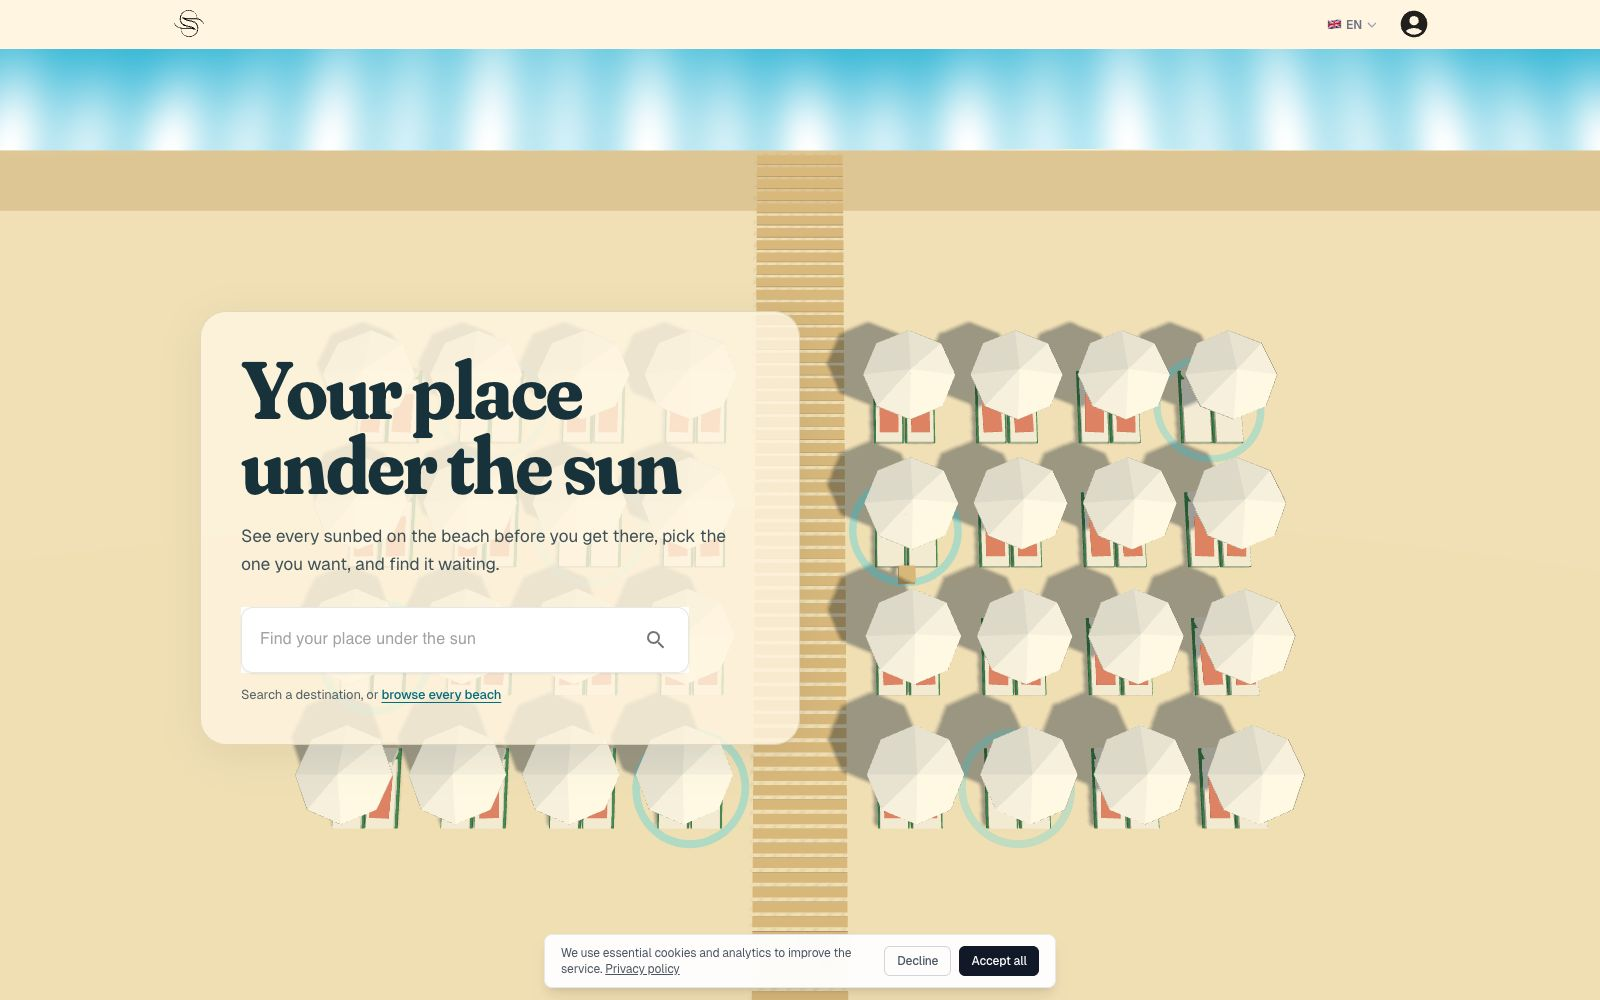
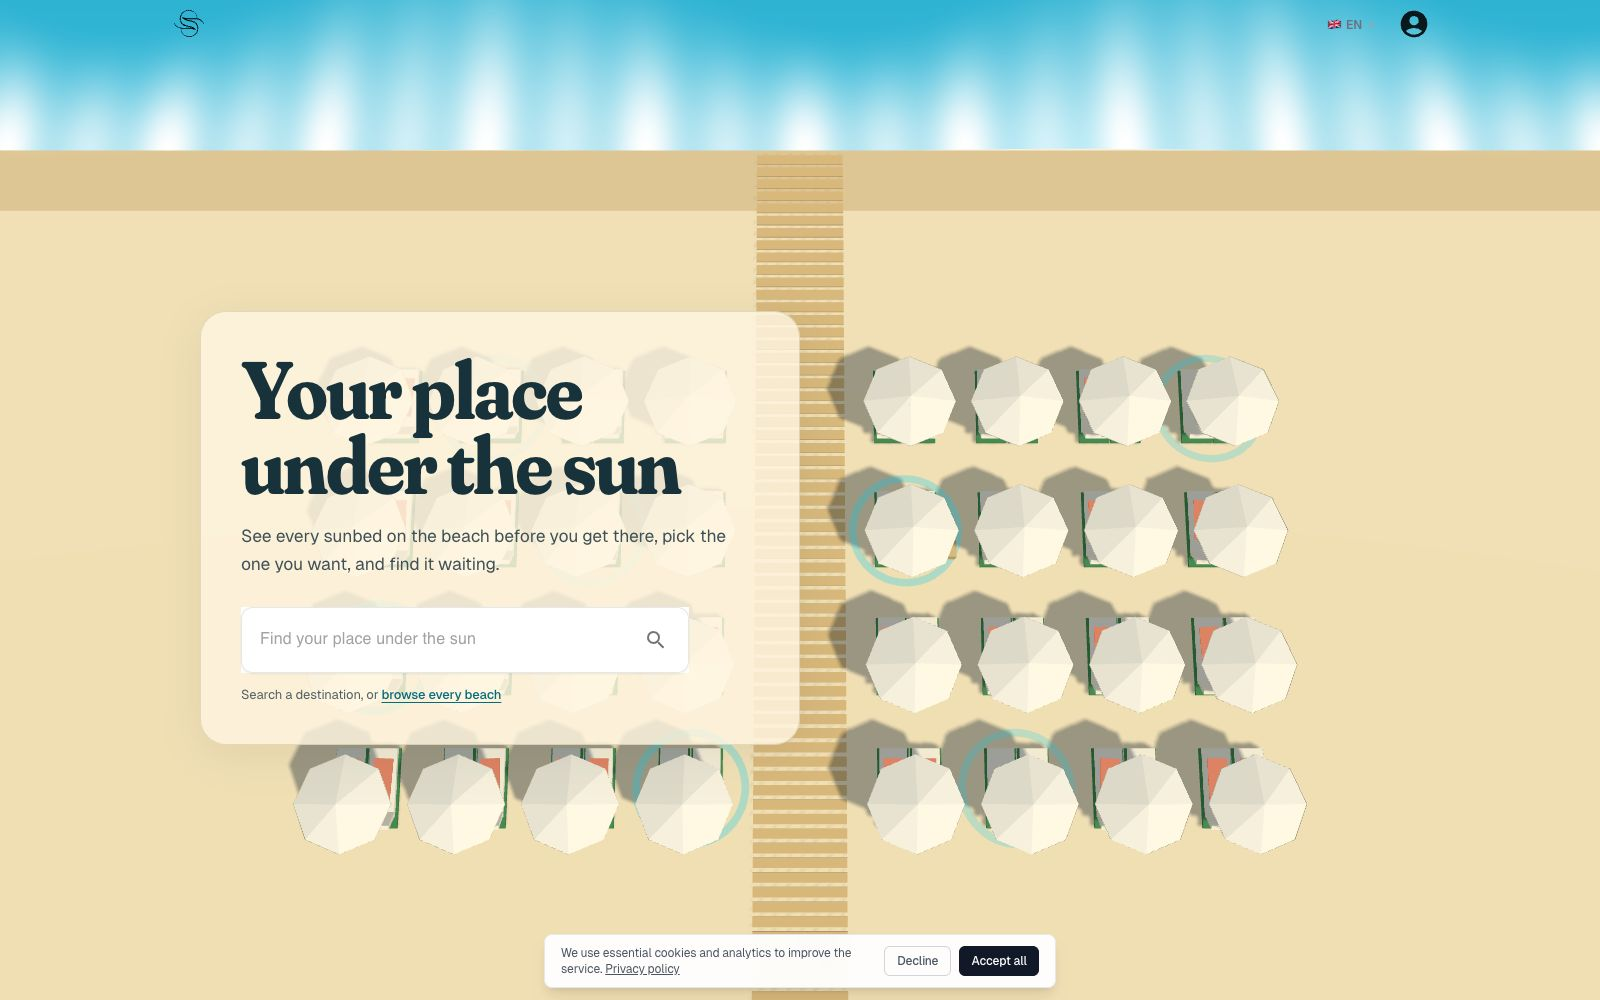
Direct the landing beach scene as one continuous camera move
Follow-up to the WebGL landing page after a first look on real hardware.

Scene geometry: loungers face the sea. The first cut had the backrest and
parasol at the water end, so guests lay looking inland; mirroring the pair
then leaned the backrest over the seat (the tilt sign had to flip with the
position), which read as folded. Pole and plaque are at the land end, the
plaque faces the walkway a guest walks in from, and its sea side is blank.

Camera: KEYS now carry an explicit scroll position each, mapped to the
Catmull-Rom parameter by tOfP(), so a segment can be slow (the turn around
the QR plaque, the turn around the drinks) or quick (the hops between)
instead of every key getting an equal share of the scroll. The old bolted-on
drinks orbit is gone; the sequence is one path:

  map → wide → glide to the seat (the claim) → arrive at the parasol from the
  walkway side → slow turn on the plaque's front → slow turn around the
  drinks table beside the lounger → spiral → straight back out along the
  boardwalk into dusk.

The spiral (Rig, SPIRAL_IN..SPIRAL_OUT) replaces a 180° turn-around that
reversed the turn direction and snapped: the yaw keeps rotating from the
drinks (φ 165°) round to the sea (360°) while the orbit centre slides from
the table to the boardwalk and the radius closes to zero, so the camera
arrives at the boardwalk's middle already facing the sea. Spline keys at
both ends match the spiral's endpoints.
[…]

diff --git a/apps/user/components/landing/beach-scene.tsx b/apps/user/components/landing/beach-scene.tsx
@@ -5,14 +5,16 @@
  *
  * A stylised beach club built from the parts the real reservation map draws:
  * a white octagonal canopy on a pole between two loungers on a green frame, a
- * coral towel on the ones that are taken. It is driven by ONE number, the
+ * coral towel on the ones that are taken. Loungers face the sea (-z): backrest
+ * and parasol at the land end, feet to the water. It is driven by ONE number, the
  * page's scroll progress `p` in [0, 1], which the parent writes into a ref:
  *
  *   p = 0     straight down — this IS the map the product uses — morning light
- *   p ≈ 0.2   the map stands up into a wide tilted view
- *   p ≈ 0.4   gliding over the rows; a free unit is claimed ("Yours")
- *   p ≈ 0.6   noon, low beside a pole: every pole carries its QR plaque
- *   p ≈ 0.8   golden hour: the camera leaves the path and circles the tray of drinks
+ *   p ≈ 0.1   the map stands up into a wide tilted view
+ *   p ≈ 0.2   gliding over the rows toward the seat; a free unit is claimed ("Yours")
+ *   p ≈ 0.36  arrive at the parasol; slow turn around the QR plaque — noon
+ *   p ≈ 0.7   slow turn around the drinks table on the far side — golden hour
+ *   p ≈ 0.92  back to the middle of the boardwalk, then out low and straight
  *   p = 1     dusk: parasols fold, string lights come on along the boardwalk
  *
  * Camera, sun, sky, sea and sand are all functions of p (Catmull-Rom through
@@ -54,7 +56,7 @@ const DX = 2.75
 const DZ = 3.35
 const WALK_W = 2.6
 const SHORE_Z = -12.5 // sea is -z
-const POLE_Z = -0.35 // between the beds, a little toward the head end
+const POLE_Z = 0.35 // between the beds at the head end — the LAND side: you lie facing the sea
 
 interface UnitSpec {
   id: number
@@ -170,31 +172,67 @@ const SEA_SHALLOW: Key[] = [
   { p: 1, v: hex('#5c7391') },
 ]
 
-// ── Camera path: keyframes at equal p-steps, Catmull-Rom between them ───────
-const CAM_POS = [
-  new THREE.Vector3(0, 36, 4.5), // 0.0  the map
-  new THREE.Vector3(2.0, 12, 27), // 0.2  wide
-  new THREE.Vector3(7.5, 4.6, 9.5), // 0.4  gliding toward the claimed unit
-  new THREE.Vector3(CLAIMED.x + 1.7, 1.55, CLAIMED.z + 2.2), // 0.6  beside the pole, noon
-  new THREE.Vector3(CLAIMED.x + 0.12, 1.0, CLAIMED.z + 2.45), // 0.8  sitting on the bed: tray in the foreground, sea ahead
-  new THREE.Vector3(-4, 6.5, 26), // 1.0  dusk, wide
-]
-const CAM_LOOK = [
-  new THREE.Vector3(0, 0, -2.5),
-  new THREE.Vector3(0.6, 0.2, -5),
-  new THREE.Vector3(CLAIMED.x + 3.2, 0.9, CLAIMED.z - 1),
-  new THREE.Vector3(CLAIMED.x, 1.3, CLAIMED.z + POLE_Z),
-  new THREE.Vector3(CLAIMED.x + 0.05, 0.1, CLAIMED.z - 4.0),
-  new THREE.Vector3(0, 1.2, -6),
-]
-const posCurve = new THREE.CatmullRomCurve3(CAM_POS, false, 'centripetal')
-const lookCurve = new THREE.CatmullRomCurve3(CAM_LOOK, false, 'centripetal')
+// ── Camera path ─────────────────────────────────────────────────────────────
+// Each key carries the scroll position it is reached at, so a segment can be
+// slow (the QR turn, the drinks) or quick (the hops between). Catmull-Rom runs
+// over the key index; `tOfP` maps scroll → index, piecewise-linear.
+//
+//   0.00 the map · 0.09 wide · 0.17–0.26 gliding over the rows toward the seat
+//   0.36 arrive at the parasol from the walkway side, plaque in view
+//   0.36–0.62 slow turn around the plaque, staying on its front (the back is blank)
+//   0.68–0.86 slow turn around the drinks table on the far side
+//   0.86–0.95 spiral in to the middle of the boardwalk, still turning, to face the sea
+//   1.00 backed out low and straight along the boardwalk
+const PLAQUE = new THREE.Vector3(CLAIMED.x, 1.3, CLAIMED.z + POLE_Z + 0.05)
+/** The side table, beside the right-hand lounger at the head end (see Drinks). */
+const TABLE = new THREE.Vector3(CLAIMED.x + 1.08, 0.45, CLAIMED.z + 0.55)
+/** A point on a circle around `c`: φ 0 = land side (+z), 90° = +x, 180° = sea. */
+const around = (c: THREE.Vector3, deg: number, r: number, h: number) => {
+  const a = (deg * Math.PI) / 180
+  return new THREE.Vector3(c.x + Math.sin(a) * r, h, c.z + Math.cos(a) * r)
+}
+const UNIT_C = new THREE.Vector3(CLAIMED.x, 0, CLAIMED.z + POLE_Z)
+const TABLE_C = new THREE.Vector3(TABLE.x, 0, TABLE.z)
+const tableLook = new THREE.Vector3(TABLE.x, TABLE.y + 0.18, TABLE.z)
+/** The middle of the boardwalk, level with the claimed row. */
+const WALK_C = new THREE.Vector3(0, 0, CLAIMED.z + 0.5)
+/** The spiral window: the drinks turn keeps rotating (φ 165° → 360°) while the
+ *  orbit centre slides from the table to the boardwalk and the radius closes to
+ *  zero, so the camera arrives at the boardwalk's middle facing the sea with no
+ *  change of turn direction. */
+const SPIRAL_IN = 0.86
+const SPIRAL_OUT = 0.95
 
-/** Where the tray sits (see Drinks) — the fly-around orbits this point. */
-const TRAY = new THREE.Vector3(CLAIMED.x, 0.62, CLAIMED.z + 1.22)
-/** The drinks window: the camera leaves the path, circles the tray, and returns. */
-const ORBIT_IN = 0.7
-const ORBIT_OUT = 0.95
+const KEYS: { p: number; pos: THREE.Vector3; look: THREE.Vector3 }[] = [
+  { p: 0.0, pos: new THREE.Vector3(0, 36, 4.5), look: new THREE.Vector3(0, 0, -2.5) },
+  { p: 0.09, pos: new THREE.Vector3(2.0, 12, 27), look: new THREE.Vector3(0.6, 0.2, -5) },
+  { p: 0.17, pos: new THREE.Vector3(7.5, 4.6, 9.5), look: new THREE.Vector3(CLAIMED.x + 3.2, 0.9, CLAIMED.z - 1) },
+  { p: 0.26, pos: new THREE.Vector3(CLAIMED.x - 4.5, 3.2, CLAIMED.z + 6.5), look: new THREE.Vector3(CLAIMED.x, 1.0, CLAIMED.z) },
+  // the plaque faces ~326° (toward the walkway); the turn stays on that side
+  { p: 0.36, pos: around(UNIT_C, 282, 2.6, 1.8), look: PLAQUE.clone() },
+  { p: 0.5, pos: around(UNIT_C, 326, 2.1, 1.55), look: PLAQUE.clone() },
+  { p: 0.62, pos: around(UNIT_C, 14, 2.2, 1.5), look: PLAQUE.clone() },
+  // quick hop to the far side, then a slow turn around the table
+  { p: 0.68, pos: around(TABLE_C, 10, 1.45, 1.1), look: tableLook.clone() },
+  { p: 0.78, pos: around(TABLE_C, 90, 1.35, 1.05), look: tableLook.clone() },
+  { p: 0.86, pos: around(TABLE_C, 165, 1.3, 1.0), look: tableLook.clone() },
+  // 0.86–0.95 is the spiral (see Rig): same turn direction, in to the boardwalk,
+  // facing the sea on arrival. Then straight out along it.
+  { p: SPIRAL_OUT, pos: WALK_C.clone().setY(1.9), look: new THREE.Vector3(0, 0.8, WALK_C.z - 10) },
+  { p: 1.0, pos: new THREE.Vector3(0, 2.2, 26), look: new THREE.Vector3(0, 1.0, -8) },
+]
+const posCurve = new THREE.CatmullRomCurve3(KEYS.map((k) => k.pos), false, 'centripetal')
+const lookCurve = new THREE.CatmullRomCurve3(KEYS.map((k) => k.look), false, 'centripetal')
+/** Scroll position → curve parameter: key i sits at t = i/(n-1), linear in between. */
+function tOfP(p: number) {
+  const n = KEYS.length
+  for (let i = 0; i < n - 1; i++) {
+    const a = KEYS[i]!.p
+    const b = KEYS[i + 1]!.p
+    if (p <= b) return (i + (p - a) / (b - a)) / (n - 1)
+  }
+  return 1
+}
 
 // ── Shared geometry / material ───────────────────────────────────────────────
 function useParts() {
@@ -300,7 +338,7 @@ function Unit({
     }
     if (!ring.current || spec.taken) return
     // the free-bed rings belong to the wide, map-like views only
-    const wide = 1 - THREE.MathUtils.smoothstep(p, 0.42, 0.5)
+    const wide = 1 - THREE.MathUtils.smoothstep(p, 0.3, 0.36)
     let opacity = (0.22 + Math.sin(t * 1.6 + spec.id) * 0.06) * wide
     let scale = 1
     if (lit) opacity = 0.85 * wide
@@ -323,11 +361,11 @@ function Unit({
       {[-0.42, 0.42].map((dx) => (
         <group key={dx} position={[dx, 0, 0]}>
           <mesh geometry={geo.frame} material={mat.frame} position={[0, 0.16, 0]} castShadow receiveShadow />
-          <mesh geometry={geo.cushion} material={mat.cushion} position={[0, 0.27, 0.14]} castShadow receiveShadow />
+          <mesh geometry={geo.cushion} material={mat.cushion} position={[0, 0.27, -0.14]} castShadow receiveShadow />
           <mesh
             geometry={geo.backrest}
             material={mat.cushion}
-            position={[0, 0.5, -0.78]}
+            position={[0, 0.5, 0.78]}
             rotation={[-0.95, 0, 0]}
             castShadow
             receiveShadow
@@ -336,7 +374,7 @@ function Unit({
             <mesh
               geometry={geo.towel}
               material={mat.towel}
-              position={[0, 0.355, 0.22]}
+              position={[0, 0.355, -0.22]}
               rotation={[0, (spec.id % 3) * 0.04 - 0.04, 0]}
               castShadow
             />
@@ -344,9 +382,9 @@ function Unit({
         </group>
       ))}
 
-      {/* pole between the beds; the plaque faces the foot end, where a guest walks up */}
+      {/* pole between the beds at the head end; the plaque faces the walkway, where a guest walks in; its sea side is blank */}
       <mesh geometry={geo.pole} material={mat.pole} position={[0, 1.15, POLE_Z]} castShadow />
-      <group position={[0, 1.32, POLE_Z + 0.05]}>
+      <group position={[0, 1.32, POLE_Z + 0.05]} rotation={[0, spec.x < 0 ? 0.6 : -0.6, 0]}>
         <mesh geometry={geo.plaque} material={mat.plaque} castShadow />
         <mesh geometry={geo.plaqueFace} material={mat.plaqueFace} position={[0, 0, 0.016]} />
       </group>
@@ -385,7 +423,7 @@ function Drinks({ parts, progress }: { parts: Parts; progress: MutableRefObject<
   useFrame(() => {
     if (!g.current) return
     const p = progress.current
-    const s = THREE.MathUtils.smoothstep(p, 0.64, 0.72) * (1 - THREE.MathUtils.smoothstep(p, 0.95, 0.99))
+    const s = THREE.MathUtils.smoothstep(p, 0.56, 0.64) * (1 - THREE.MathUtils.smoothstep(p, 0.95, 0.99))
     g.current.scale.setScalar(Math.max(0.0001, s))
     g.current.visible = s > 0.001
   })
@@ -401,7 +439,7 @@ function Drinks({ parts, progress }: { parts: Parts; progress: MutableRefObject<
   )
   const { geo, mat } = parts
   return (
-    <group position={[CLAIMED.x, 0, CLAIMED.z + 1.22]}>
+    <group position={[TABLE.x, 0, TABLE.z]}>
       <mesh geometry={geo.table} material={mat.wood} position={[0, 0.21, 0]} castShadow receiveShadow />
       <group ref={g} position={[0, 0.42, 0]}>
         <mesh material={mats.tray} position={[0, 0.012, 0]} castShadow>
@@ -766,8 +804,7 @@ function Rig({ progress, reduced }: { progress: MutableRefObject<number>; reduce
   const pos = useMemo(() => new THREE.Vector3(), [])
   const look = useMemo(() => new THREE.Vector3(), [])
   const dir = useMemo(() => new THREE.Vector3(), [])
-  const orbitPos = useMemo(() => new THREE.Vector3(), [])
-  const orbitLook = useMemo(() => new THREE.Vector3(), [])
+  const centre = useMemo(() => new THREE.Vector3(), [])
 
   useFrame(({ clock }, dt) => {
     // ease toward the scroll position so a flick reads as a camera move
@@ -775,24 +812,21 @@ function Rig({ progress, reduced }: { progress: MutableRefObject<number>; reduce
     smooth.current += (progress.current - smooth.current) * k
     const p = THREE.MathUtils.clamp(smooth.current, 0, 1)
 
-    posCurve.getPoint(p, pos)
-    lookCurve.getPoint(p, look)
+    const t = tOfP(p)
+    posCurve.getPoint(t, pos)
+    lookCurve.getPoint(t, look)
 
-    // Golden hour: a slow half-circle around the tray. Starts behind it on the
-    // land side (continuing the path's seaward view), passes close on the right,
-    // ends on the sea side looking back at the drinks with the parasols behind.
-    // the hand-back to the wide dusk shot is a long camera move, so it gets a long window
-    const w = THREE.MathUtils.smoothstep(p, ORBIT_IN, ORBIT_IN + 0.05) * (1 - THREE.MathUtils.smoothstep(p, ORBIT_OUT - 0.08, ORBIT_OUT))
-    if (w > 0) {
-      const u = THREE.MathUtils.clamp((p - ORBIT_IN) / (ORBIT_OUT - ORBIT_IN), 0, 1)
-      const theta = u * Math.PI * 0.58 // 0 = land side; stop on the right so the pull-back to dusk clears the pole
-      const bulge = Math.sin(u * Math.PI) // closest and lowest at mid-pass
-      const r = 1.75 - 0.55 * bulge
-      const h = 1.15 - 0.3 * bulge // high enough that the plaque behind the tray clears it
-      orbitPos.set(TRAY.x + Math.sin(theta) * r, TRAY.y + h, TRAY.z + Math.cos(theta) * r)
-      orbitLook.copy(TRAY).setY(TRAY.y - 0.04) // aim a touch low so the glasses sit above the docked search
-      pos.lerp(orbitPos, w)
-      look.lerp(orbitLook, w)
+    if (p > SPIRAL_IN && p < SPIRAL_OUT) {
+      const u = THREE.MathUtils.smoothstep(p, SPIRAL_IN, SPIRAL_OUT)
+      const phi = (THREE.MathUtils.lerp(165, 360, u) * Math.PI) / 180
+      const r = THREE.MathUtils.lerp(1.3, 0, u)
+      const h = THREE.MathUtils.lerp(1.0, 1.9, u)
+      centre.lerpVectors(TABLE_C, WALK_C, u)
+      pos.set(centre.x + Math.sin(phi) * r, h, centre.z + Math.cos(phi) * r)
+      // the yaw keeps pointing "at the centre" along φ, so it turns continuously
+      // from the table round to the sea; the look distance opens up as we arrive
+      const d = THREE.MathUtils.lerp(1.3, 10, u)
+      look.set(pos.x - Math.sin(phi) * d, THREE.MathUtils.lerp(tableLook.y, 0.8, u), pos.z - Math.cos(phi) * d)
     }
 
     // portrait viewports stand further back from the look target
@@ -805,7 +839,7 @@ function Rig({ progress, reduced }: { progress: MutableRefObject<number>; reduce
     if (!reduced) {
       const t = clock.getElapsedTime()
       // less drift in the close-ups
-      const calm = 1 - THREE.MathUtils.smoothstep(p, 0.5, 0.62) + THREE.MathUtils.smoothstep(p, ORBIT_OUT, 1)
+      const calm = 1 - THREE.MathUtils.smoothstep(p, 0.3, 0.36) + THREE.MathUtils.smoothstep(p, SPIRAL_OUT, 1)
       pos.x += Math.sin(t * 0.18) * 0.5 * calm
       pos.y += Math.sin(t * 0.23) * 0.12 * calm
     }
@@ -834,12 +868,12 @@ function Club({
 
   useFrame(({ clock }) => {
     const p = progress.current
-    if (!claimed && p > 0.28) {
+    if (!claimed && p > 0.2) {
       setClaimStart(reduced ? null : clock.getElapsedTime())
       setClaimed(true)
     }
     // the tag belongs to the wide views; close-ups and dusk drop it
-    const show = claimed && p < 0.46
+    const show = claimed && p < 0.34
     if (show !== tagOn) setTagOn(show)
   })
 

diff --git a/apps/user/app/view.tsx b/apps/user/app/view.tsx
@@ -48,12 +48,12 @@ interface BusinessEntity {
 
 /** Scroll windows (fractions of the stage): fade in over [a,b], out over [c,d]. */
 const BEATS = {
-  hero: [-0.02, 0, 0.09, 0.16], // fully in at p = 0 (a window starting AT 0 is invisible at rest)
+  hero: [-0.02, 0, 0.07, 0.13], // fully in at p = 0 (a window starting AT 0 is invisible at rest)
   hint: [-0.02, 0, 0.01, 0.05],
-  stage1: [0.2, 0.26, 0.4, 0.46],
-  stage2: [0.5, 0.56, 0.66, 0.72],
-  stage3: [0.74, 0.8, 0.86, 0.9],
-  close: [0.92, 0.97, 1.5, 1.6], // stays once it is in
+  stage1: [0.13, 0.18, 0.31, 0.36], // the flyover and the travel to the seat
+  stage2: [0.38, 0.43, 0.6, 0.65], // arriving: the plaque is in view, and stays while we turn around it
+  stage3: [0.68, 0.73, 0.84, 0.88], // the turn around the drinks
+  close: [0.94, 0.985, 1.5, 1.6], // stays once it is in
 } as const
 
 /** The pointer-event windows BeachStage switches between — hoisted so the stage's scroll effect binds once. */
@@ -211,7 +211,7 @@ export default function HomeView({ businessEntity }: { businessEntity: BusinessE
           </div>
         </Panel>
 
-        <Panel beat="hint" className="bottom-4 left-1/2 -translate-x-1/2 text-center md:bottom-6">
+        <Panel beat="hint" className="inset-x-0 bottom-4 flex justify-center text-center md:bottom-6">
           <div className="flex flex-col items-center gap-1 text-[11px] font-medium uppercase tracking-[0.18em] text-[#4f6065]">
             <span>{t('scrollHint')}</span>
             <svg className="lp-hint-arrow h-4 w-4" viewBox="0 0 16 16" fill="none" aria-hidden="true">
@@ -222,7 +222,7 @@ export default function HomeView({ businessEntity }: { businessEntity: BusinessE
 
         {/* Beat 1 — late morning, the map stands up */}
         <Panel beat="stage1" className="inset-x-0 bottom-0 md:inset-y-0 md:left-auto md:right-0 md:flex md:w-1/2 md:items-center">
-          <div className="px-5 pb-[17svh] md:px-8 md:pb-0 lg:pr-[max(2rem,calc((100vw-72rem)/2))]">
+          <div className="px-5 pb-[21svh] md:px-8 md:pb-0 lg:pr-[max(2rem,calc((100vw-72rem)/2))]">
             <StageCopy
               label={t('stage1Label')}
               title={t('stage1Title')}
@@ -234,14 +234,14 @@ export default function HomeView({ businessEntity }: { businessEntity: BusinessE
 
         {/* Beat 2 — noon, at the pole */}
         <Panel beat="stage2" className="inset-x-0 bottom-0 md:inset-y-0 md:right-auto md:left-0 md:flex md:w-1/2 md:items-center">
-          <div className="px-5 pb-[17svh] md:px-8 md:pb-0 lg:pl-[max(2rem,calc((100vw-72rem)/2))]">
+          <div className="px-5 pb-[21svh] md:px-8 md:pb-0 lg:pl-[max(2rem,calc((100vw-72rem)/2))]">
             <StageCopy label={t('stage2Label')} title={t('stage2Title')} desc={t('stage2Desc')} />
           </div>
         </Panel>
 
         {/* Beat 3 — golden hour, on the lounger */}
         <Panel beat="stage3" className="inset-x-0 bottom-0 md:inset-y-0 md:left-auto md:right-0 md:flex md:w-1/2 md:items-center">
-          <div className="px-5 pb-[17svh] md:px-8 md:pb-0 lg:pr-[max(2rem,calc((100vw-72rem)/2))]">
+          <div className="px-5 pb-[21svh] md:px-8 md:pb-0 lg:pr-[max(2rem,calc((100vw-72rem)/2))]">
             <StageCopy label={t('stage3Label')} title={t('stage3Title')} desc={t('stage3Desc')} />
           </div>
         </Panel>
@@ -249,7 +249,7 @@ export default function HomeView({ businessEntity }: { businessEntity: BusinessE
         {/* Docked search — takes over from the hero's and stays for the rest of the page */}
         <div className="lp-dock fixed inset-x-0 bottom-3 z-30 flex justify-center px-3 md:bottom-5">
           <div className="lp-glass w-full max-w-xl rounded-2xl p-2">
-            <SearchBar className="flex flex-col-reverse overflow-hidden rounded-xl" />
+            <SearchBar className="flex flex-col-reverse" />
             <p className="mt-1.5 px-1 text-center text-[12px] text-[#4f6065]">
               {t('searchHint')}{' '}
               <button type="button" onClick={() => router.push('/sites')} className="lp-link font-medium">

diff --git a/apps/user/components/search/search-bar.tsx b/apps/user/components/search/search-bar.tsx
@@ -37,8 +37,8 @@ export default function SearchBar({ className }: { className?: string } = {}) {
   const showSuggestions = (suggestions || []).length > 0 && searchText.length > 2
 
   return (
-    <div className={`bg-white ${className ?? ''}`}>
-      <div className="w-full flex rounded-xl border border-gray-200 p-2.5 shadow-soft">
+    <div className={className}>
+      <div className="w-full flex rounded-xl border border-gray-200 bg-white p-2.5 shadow-soft">
         <InputBase
           fullWidth={true}
           sx={{ ml: 1, flex: 1 }}
@@ -67,7 +67,7 @@ export default function SearchBar({ className }: { className?: string } = {}) {
         
       { 
         (!selectedPlace && !isMenuOpen && showSuggestions) && (
-          <div className="bg-cream flex flex-wrap justify-center pt-2 pb-4 gap-1.5">
+          <div className="flex flex-wrap justify-center gap-1.5 px-1 pb-3 pt-2">
             {
               ((searchText.length > 2 && suggestions) || []).map((suggestion, index) => {
                 return (
